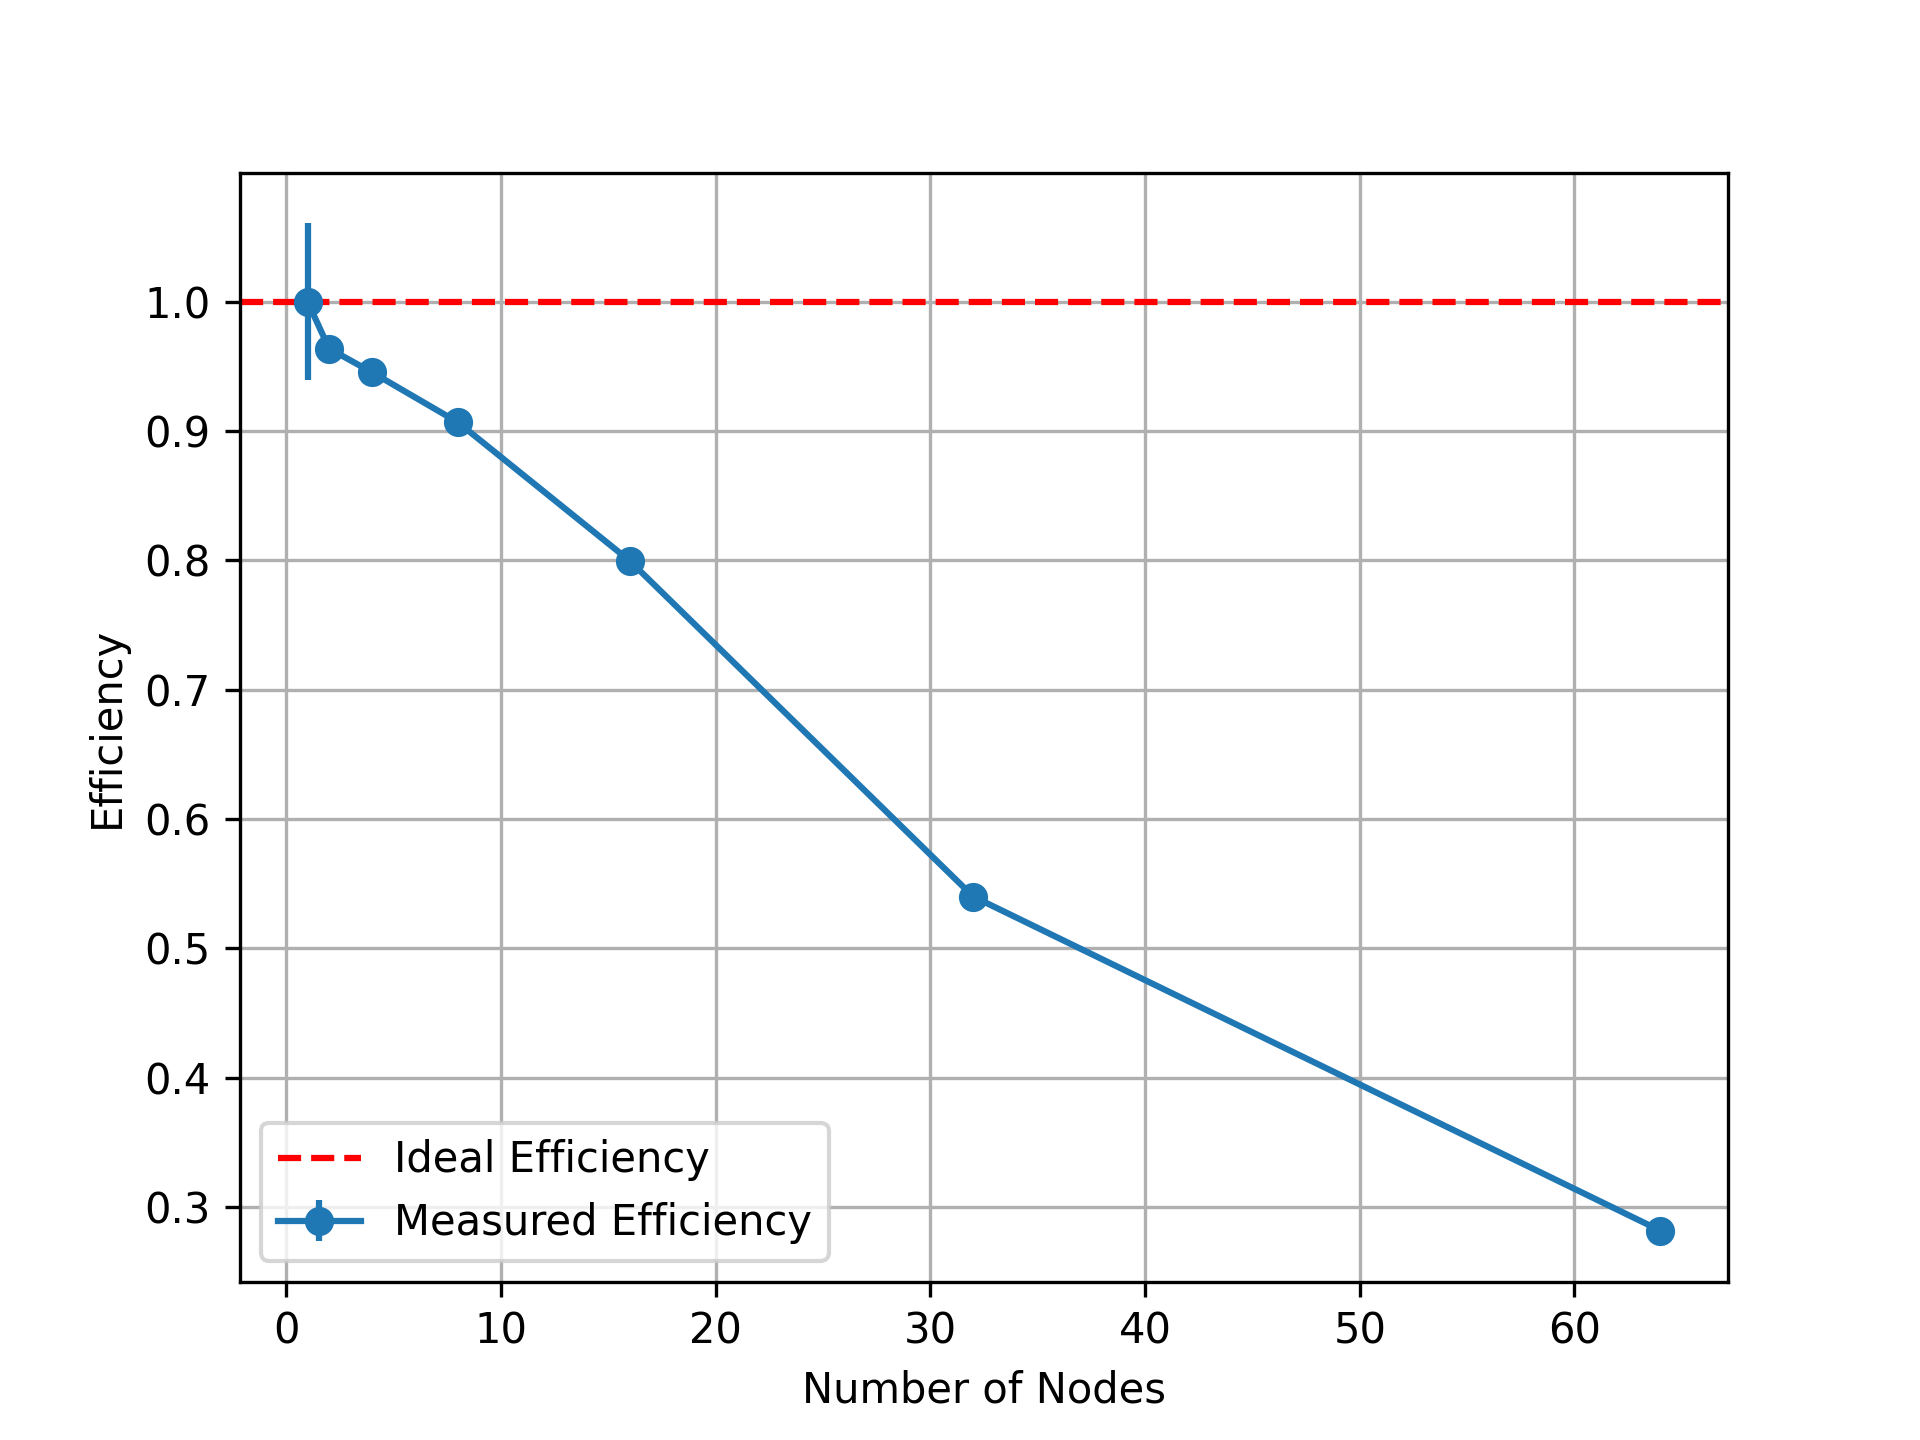
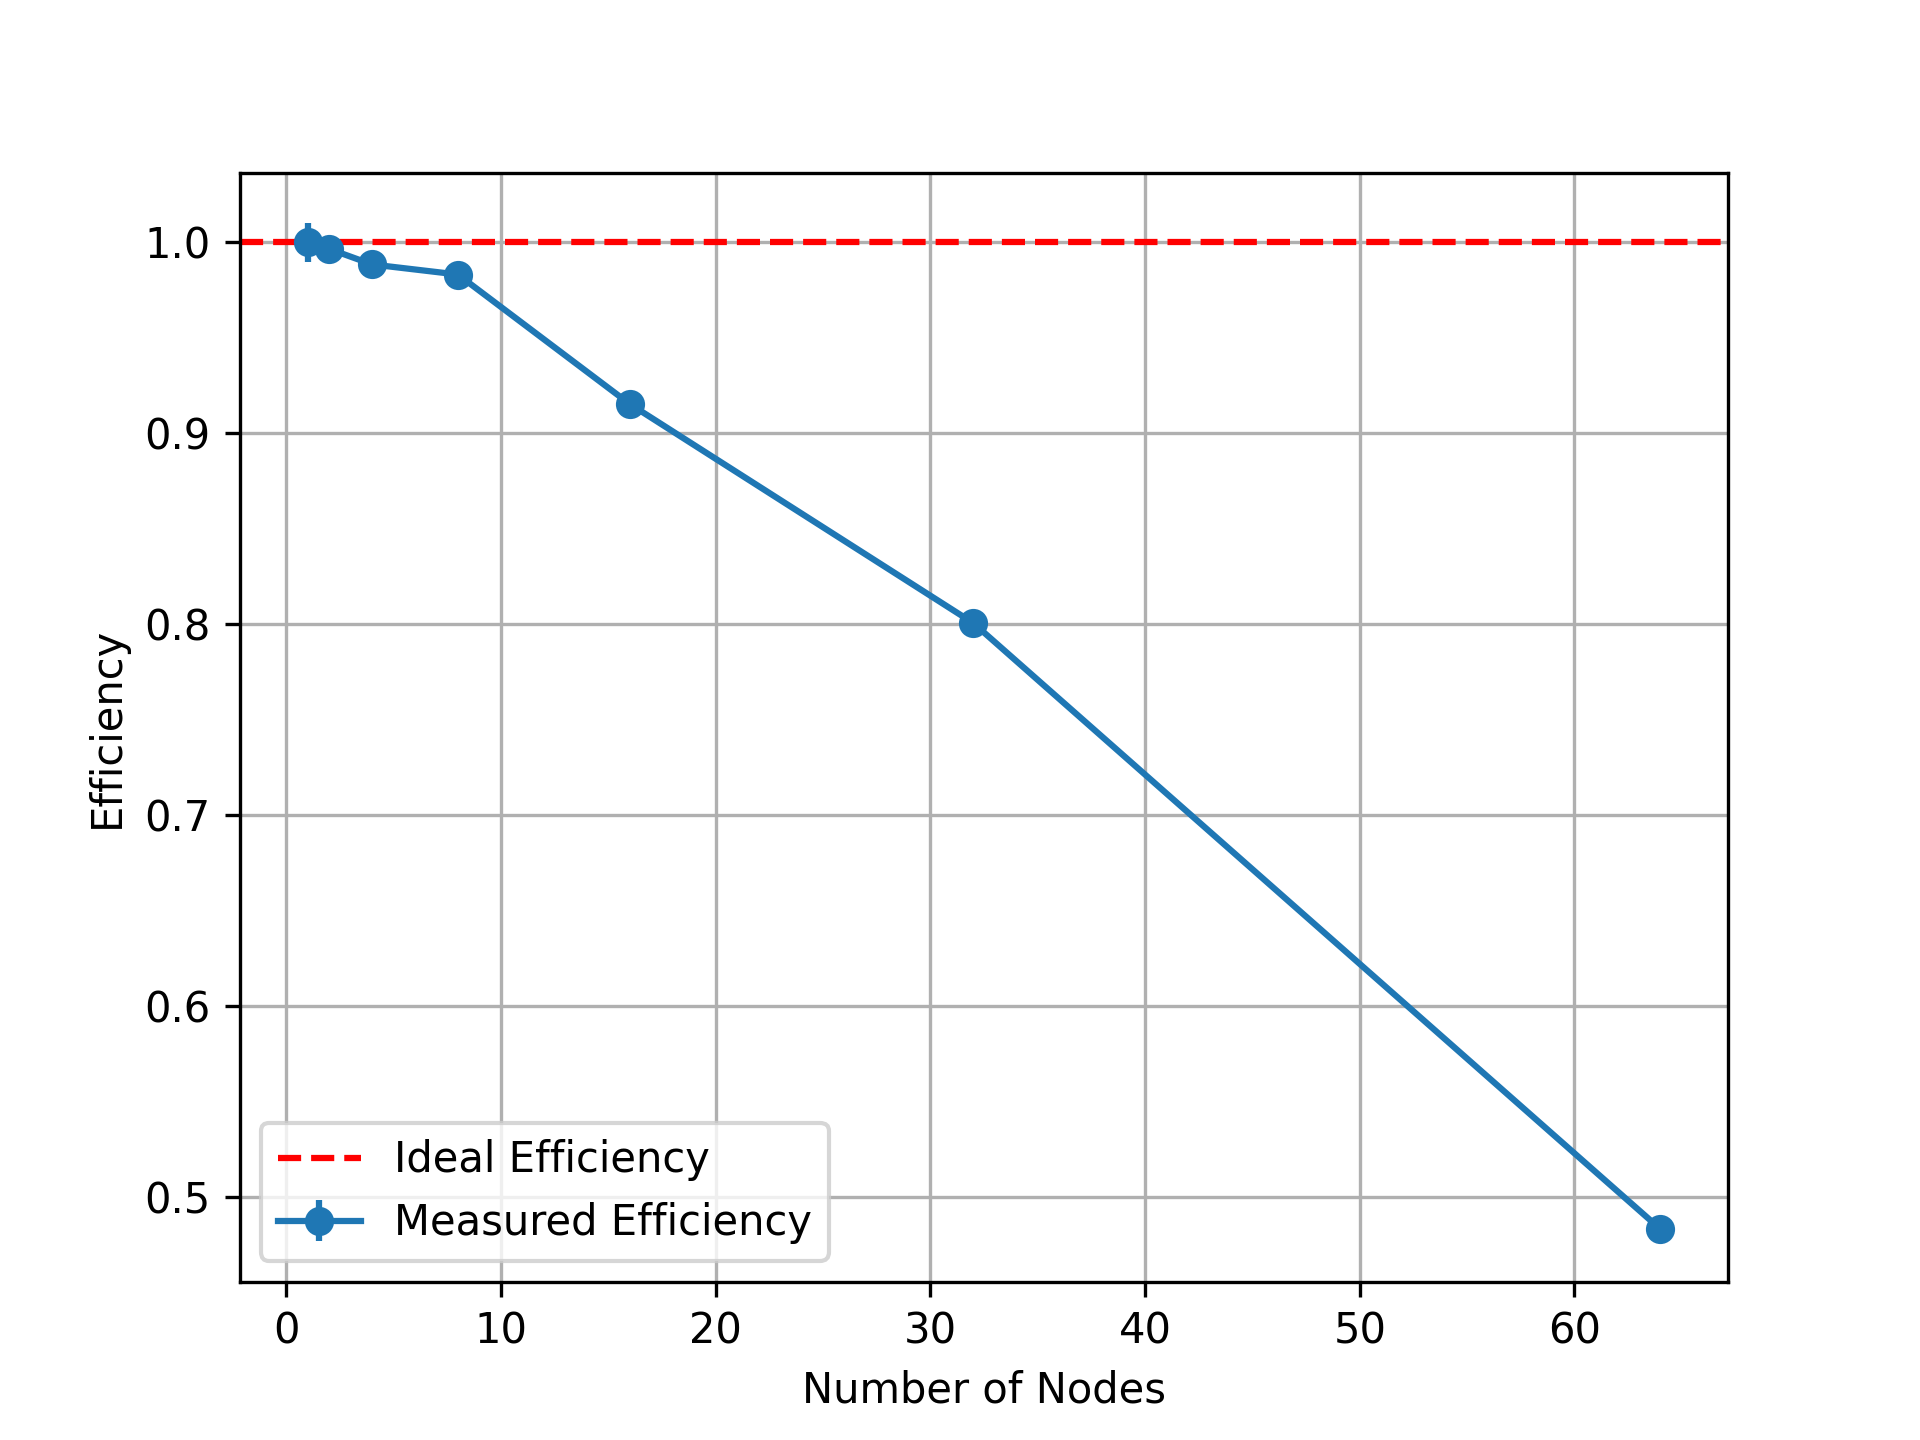
Update test resources

diff --git a/scripts/postprocess/plot_results_scalability.py b/scripts/postprocess/plot_results_scalability.py
@@ -9,9 +9,16 @@ def load_data(csv_path):
                "Extra", "NNodes"]
     df = pd.read_csv(csv_path, sep="|", names=columns)
     df = df[df["Status"] == "COMPLETED"]
-    df["Time"] = pd.to_timedelta(df["Time"]).dt.total_seconds()
+    
+    # Convert the "Time" column to numeric (assuming it's already in seconds)
+    df["Time"] = pd.to_numeric(df["Time"], errors="coerce")
+    
+    # Filter out invalid rows (negative or NaN times)
+    df = df[df["Time"] >= 0]
+    
+    # Ensure "Nodes" is numeric and drop rows with invalid data
     df["Nodes"] = pd.to_numeric(df["Nodes"], errors="coerce")
-    df = df.dropna(subset=["Nodes", "Time"])  # Remove rows with invalid data
+    df = df.dropna(subset=["Nodes", "Time"])
     df["Nodes"] = df["Nodes"].astype(int)
     return df
 
@@ -21,10 +28,11 @@ def compute_metrics(df):
     grouped = grouped.sort_index()
     if grouped.empty:
         return grouped
+    
+    # Calculate speedup and efficiency
     base_time = grouped.iloc[0]["mean"]
     grouped["Speedup"] = base_time / grouped["mean"]
-    grouped["Efficiency"] = grouped["Speedup"] / grouped.index.to_numpy(
-        dtype=float)
+    grouped["Efficiency"] = grouped["Speedup"] / grouped.index.to_numpy(dtype=float)
     return grouped
 
 
